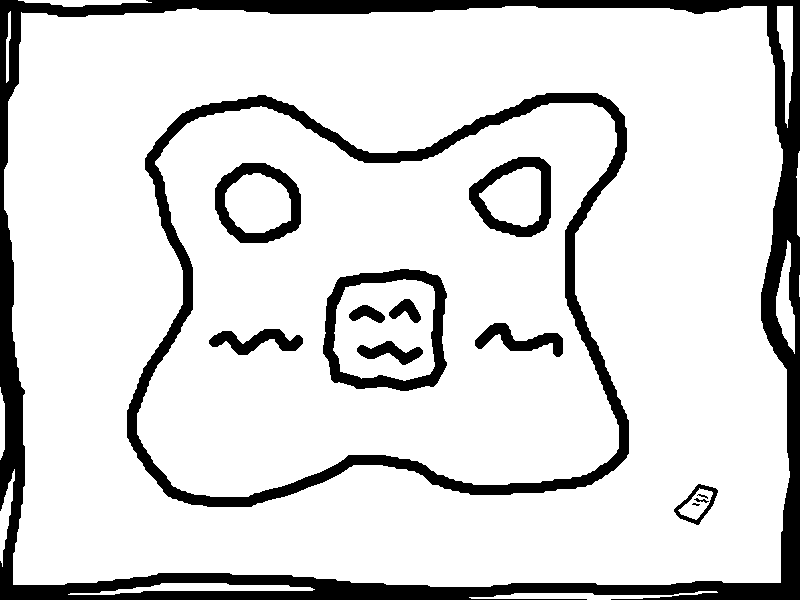
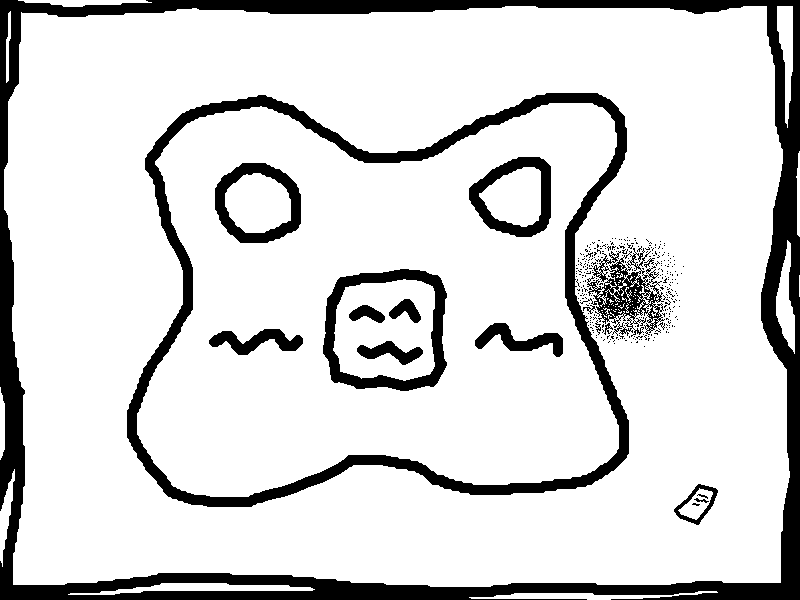
spot

Changed region(s): [[0.7188, 0.39, 0.8438, 0.57]]

diff --git a/maps/dreamW.py b/maps/dreamW.py
@@ -6,7 +6,7 @@ from dialog import Dialog
 
 class DreamW:
     def __init__(self, screen, gamePath=gamePath):
-        self.play_intro = True  # New flag to control intro sequence and dialogs
+        self.play_intro = False  # New flag to control intro sequence and dialogs
         self.screen = screen
         self.background = pygame.image.load(f"{gamePath}/img/dreamW/bg.png")
         self.grid_size = 48
@@ -41,6 +41,10 @@ class DreamW:
         self.carpetDialog = Dialog(screen, [
             ["Just a carpet with a cute face", None, None, False, False],
             ["Nothing special", None, None, False, False]
+        ], self.player)
+        self.spotDialog = Dialog(screen, [
+            ["Just a spot", None, None, False, False],
+            ["You hope it gets erased soon", None, None, False, False]
         ], self.player)
         
         # Add intro sequence properties
@@ -122,7 +126,8 @@ class DreamW:
             self.dialog.is_active,
             self.dialog1.is_active,
             self.paperDialog.is_active,
-            self.carpetDialog.is_active
+            self.carpetDialog.is_active,
+            self.spotDialog.is_active
         ])
 
     def draw(self):
@@ -164,7 +169,7 @@ class DreamW:
             self.player.draw(self.screen)
             
             # Draw debug grid
-            dG.draw(False, self.screen)
+            dG.draw(True, self.screen)
             
             # Draw active dialog (only if play_intro is True)
             if self.play_intro:
@@ -181,6 +186,9 @@ class DreamW:
             if self.carpetDialog.is_active:
                 self.carpetDialog.draw()
             
+            if self.spotDialog.is_active:
+                self.spotDialog.draw()
+            
             pygame.display.flip()
             
             for event in pygame.event.get():
@@ -193,12 +201,16 @@ class DreamW:
                     if event.key == pygame.K_z:
                         player_grid_index = self.get_player_grid_index()
                         carpet_indices = [103, 104, 120, 119]  # Grid indices for carpet area
-                        
+                        spot_indices = [92,93,109,108]  # Grid indices for spot area
+
                         if player_grid_index == 174 and not self.paperDialog.is_active:
                             self.paperDialog.start_dialog()
                         # Only allow carpet dialog interaction when intro is complete
                         elif player_grid_index in carpet_indices and not self.carpetDialog.is_active and self.all_dialogs_complete:
                             self.carpetDialog.start_dialog()
+                        elif player_grid_index in spot_indices and not self.spotDialog.is_active:
+                            self.spotDialog.start_dialog()
+
                         elif self.dialog.is_active:
                             self.dialog.next()
                         elif self.dialog1.is_active:
@@ -207,6 +219,9 @@ class DreamW:
                             self.paperDialog.next()
                         elif self.carpetDialog.is_active:
                             self.carpetDialog.next()
+                        elif self.spotDialog.is_active:
+                            self.spotDialog.next()
+
                     elif event.key == pygame.K_b:
                         mouse_pos = pygame.mouse.get_pos()
                         index, coords = self.get_grid_pos(mouse_pos)

diff --git a/main.py b/main.py
@@ -16,7 +16,7 @@ pygame.display.set_caption("Marko Corner")
 
 
 # background = pygame.transform.scale(background, (WIDTH, HEIGHT))  # Масштабирование под размер окна
-Level.levelName = "intro"
+Level.levelName = "dreamW"
 
 
 # Основной цикл программы
